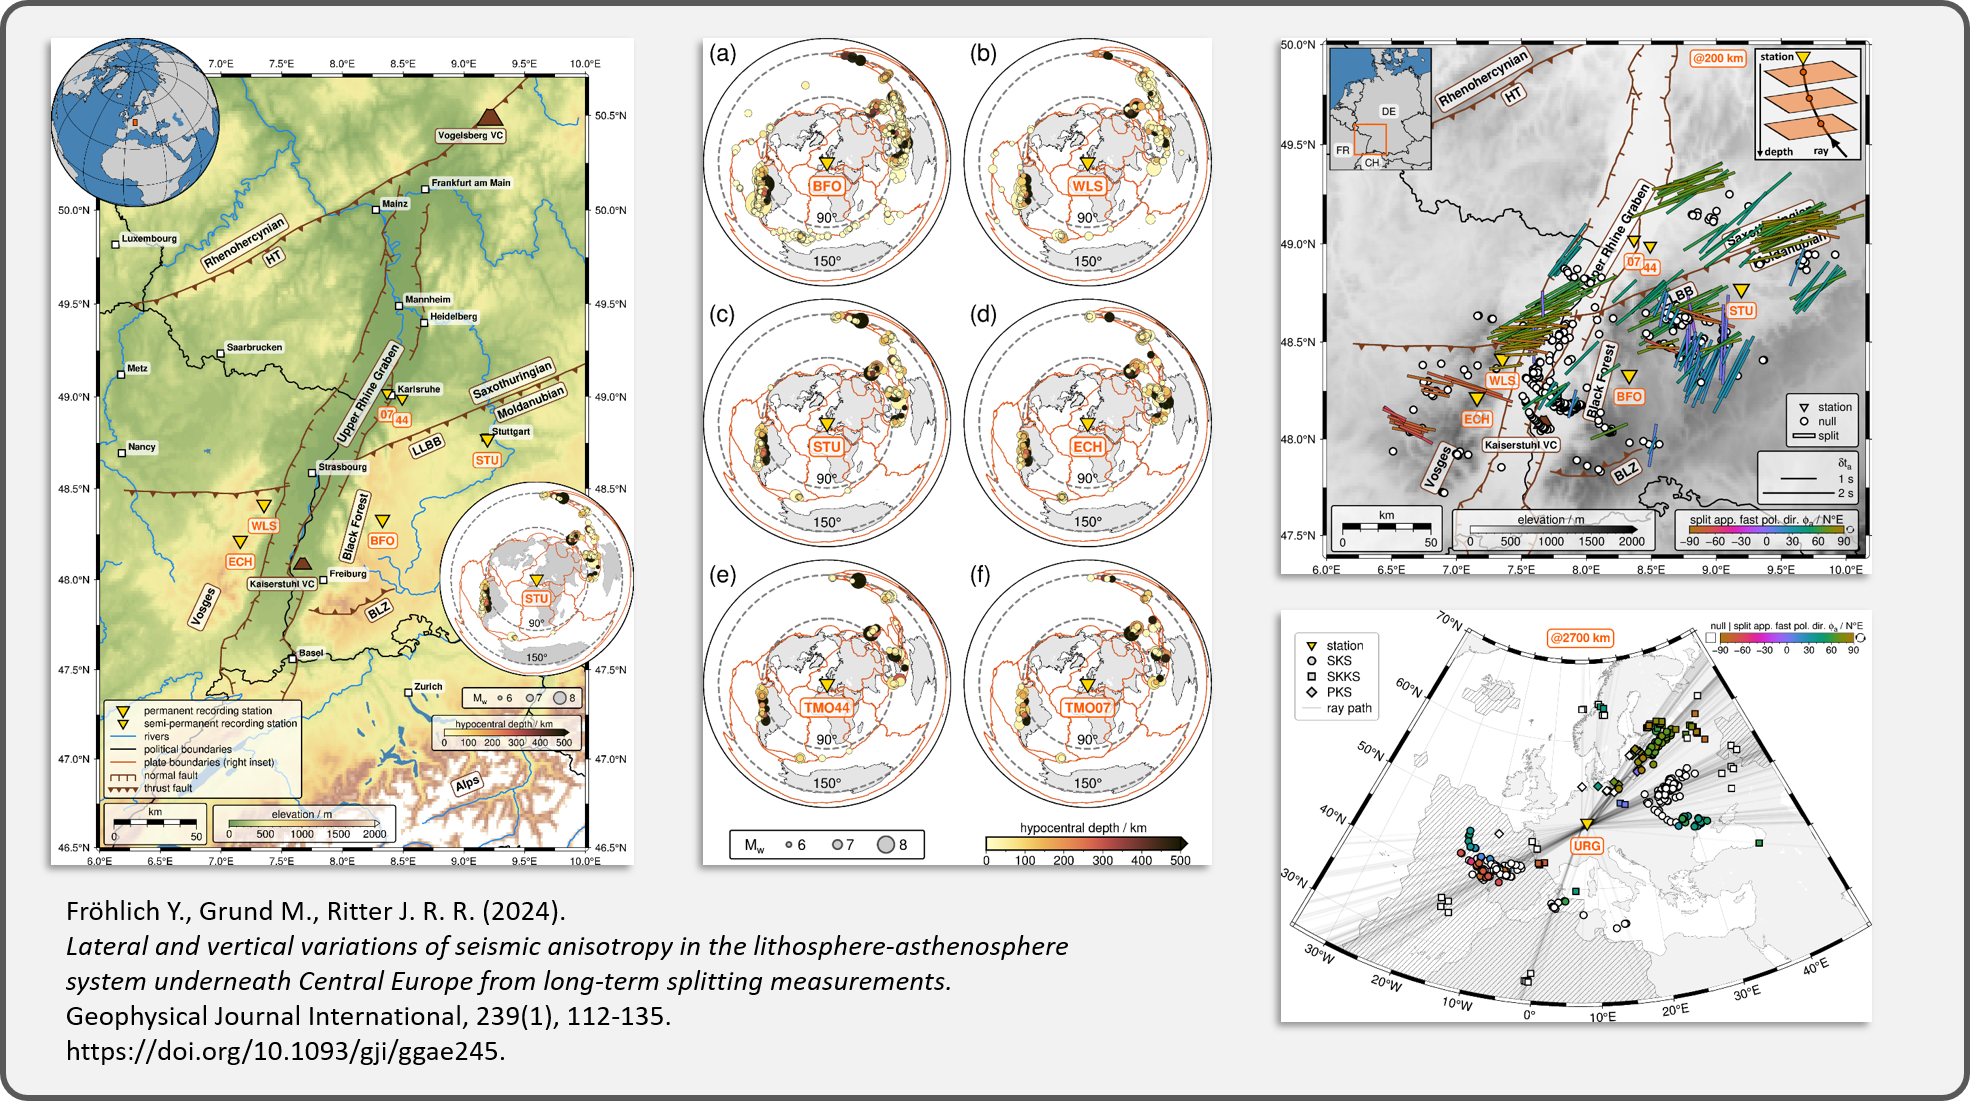
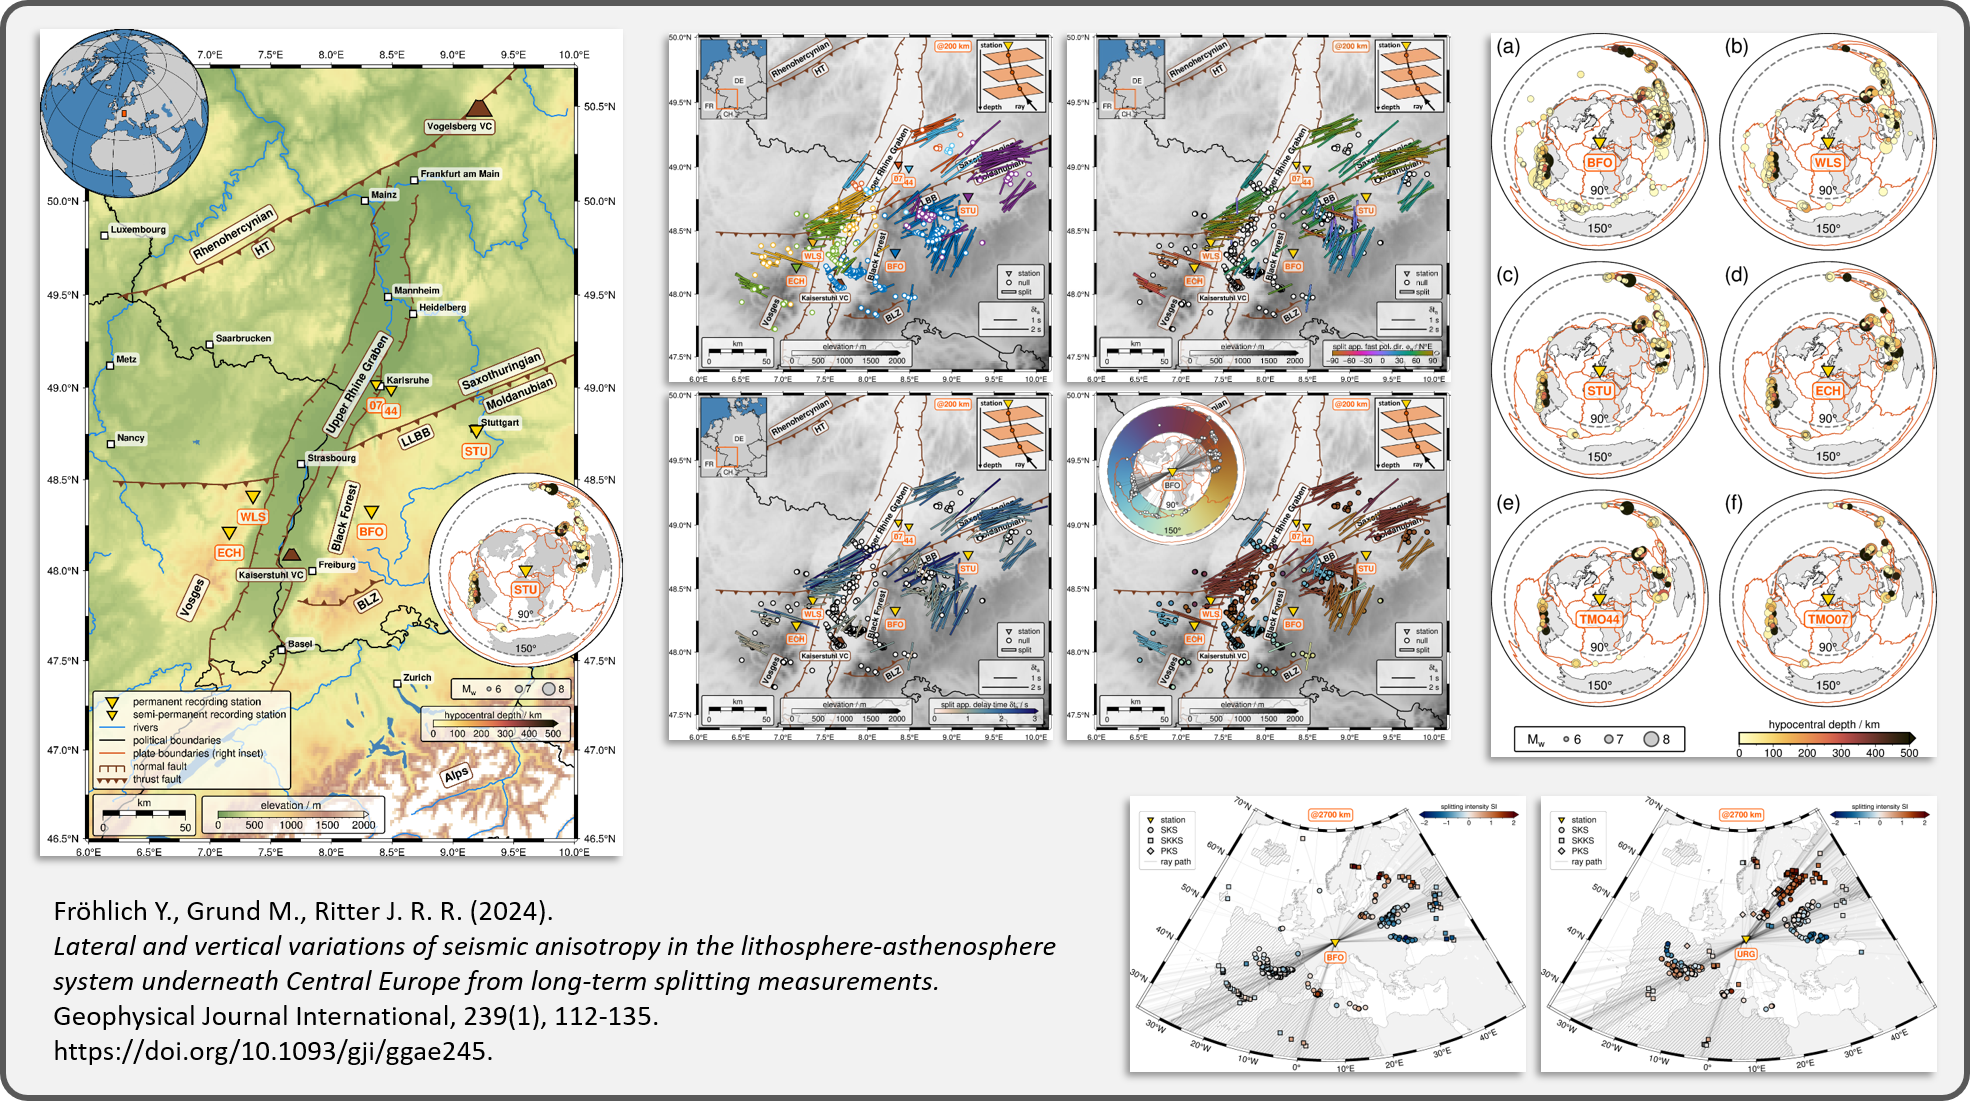
Update codes and overview images

diff --git a/002_paper_FGR_2024/Figure_9/FGR2024_GJI_Fig9.py b/002_paper_FGR_2024/Figure_9/FGR2024_GJI_Fig9.py
@@ -431,7 +431,7 @@ with gmt.config(MAP_TICK_LENGTH_PRIMARY="2p", FONT="17p"):
                 cmap_pp = cmap_baz
                 frame_pp = cb_baz_label
                 pos_pp = cb_baz_pos
-    if status_pp == "baz" and status_cw == True:
+    if status_pp == "station" or (status_pp == "baz" and status_cw == True):
         pass
     else:
         fig.colorbar(cmap=cmap_pp, frame=frame_pp, position=pos_pp, box=box_standard)

diff --git a/002_paper_FGR_2024/Figure_S22/FGR2024_GJI_FigS22.py b/002_paper_FGR_2024/Figure_S22/FGR2024_GJI_FigS22.py
@@ -37,7 +37,7 @@ import pygmt as gmt
 # Choose
 # -----------------------------------------------------------------------------
 status_station = "URG"  ## "BFO" | "URG" | "URGwithBFO"
-status_pp = "phi"  ## "phase" | "phi" | "dt" | "si" | "baz"
+status_pp = "si"  ## "phase" | "phi" | "dt" | "si" | "baz"
 
 
 # %%
